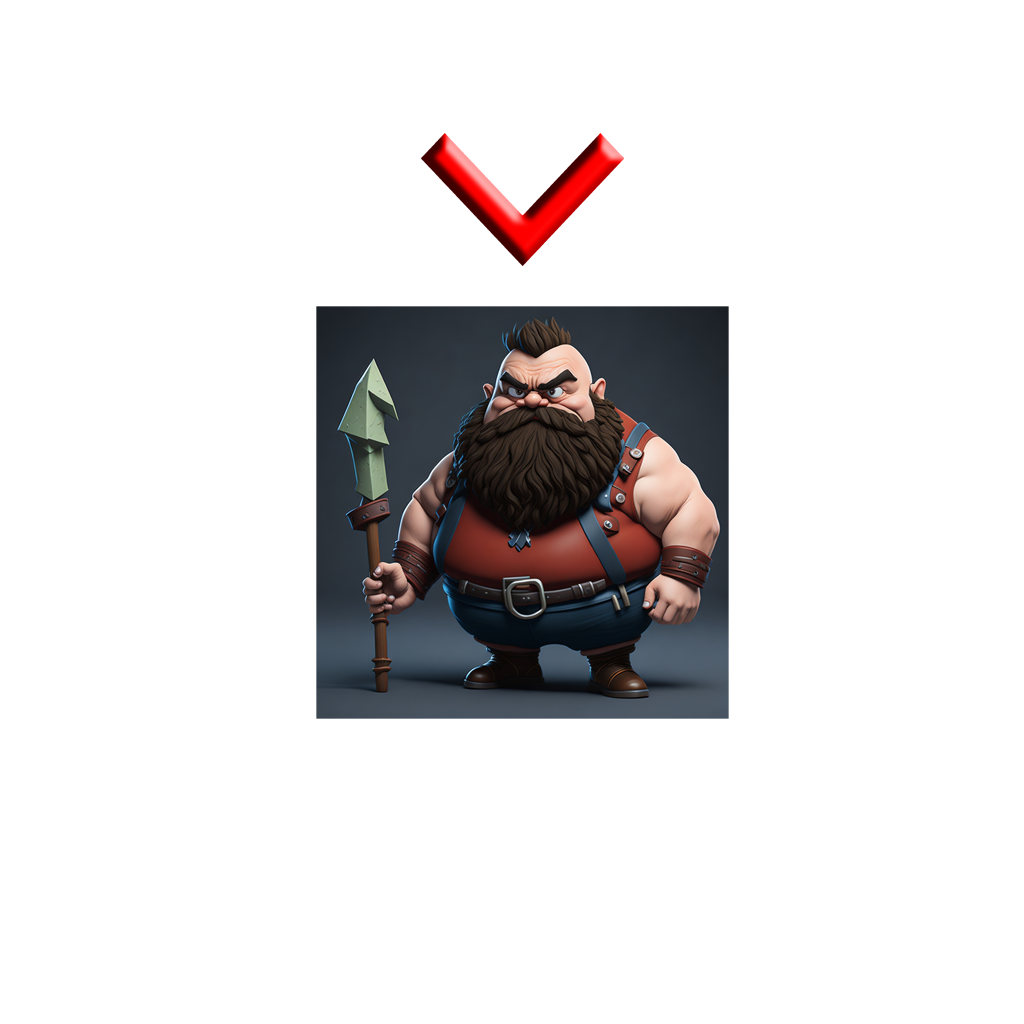
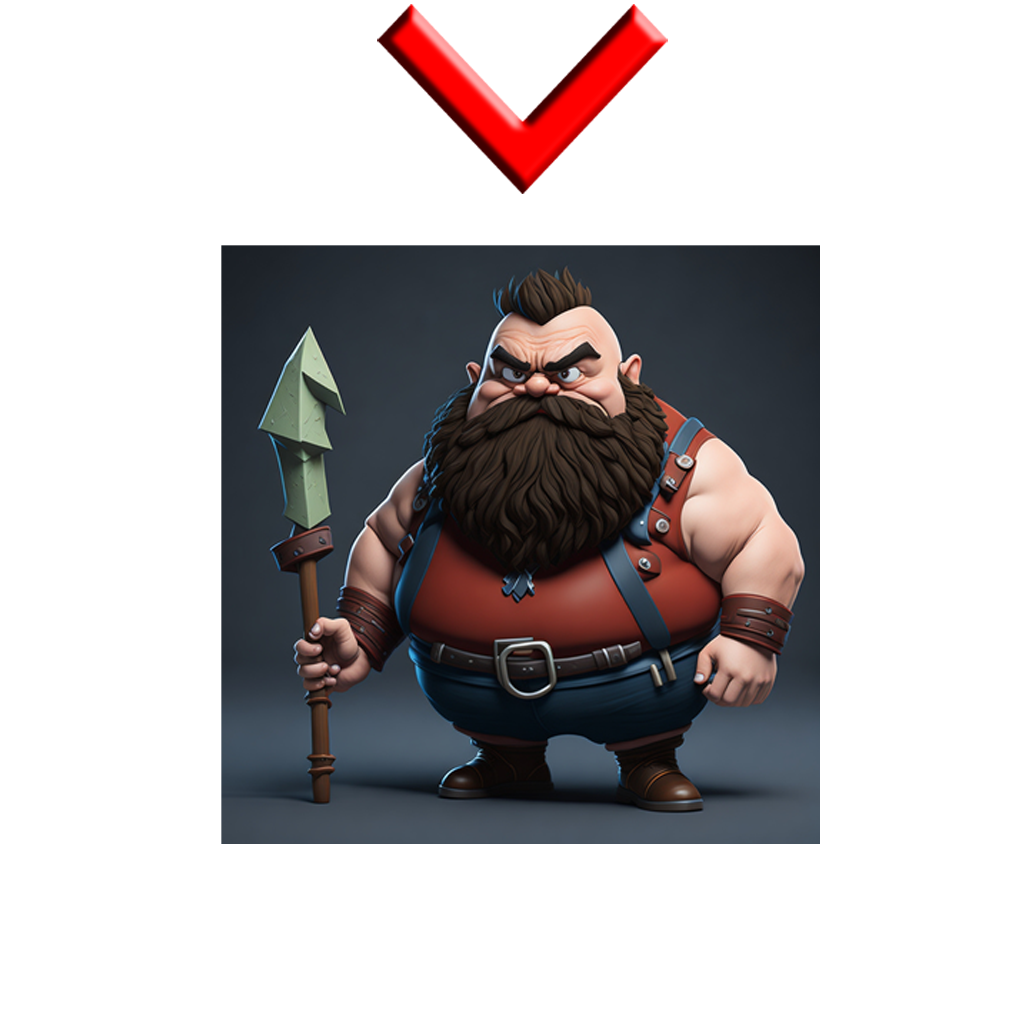
Added function on buttons & 2 player mode selector

diff --git a/index.html b/index.html
@@ -12,12 +12,12 @@
 <body>
     <div class="main-container">
         <div class="battleTitle">
-            <span>Pick your battle!</span>
+            <span class="battleTitleText">Pick your battle!</span>
         </div>
         <div class="versus">
-            <img src="" alt="">
+            <div id="div-image1"></div>
             <span class="versusText">VS</span>
-            <img src="" alt="">
+            <div id="div-image2"></div>
         </div>
         <div class="fight">
             <button onclick="epicFight.go()" class="btnFight"><img class="btnImage" src="/assets/images/fight.png"
@@ -25,14 +25,13 @@
         </div>
         <div class="heroes-container">
             <div class="hero-container">
-                <img class="heroImage" src="/assets/images/dwarf_selection.png" alt="dwarf">
-                <!-- Modifica imaginile in 300x300 px -->
+                <button onclick="imageP1Left(`/assets/images/dwarf.png`) || imageP2Right(`/assets/images/dwarf.png`)" class="hero-selection" data-selection="dwarf"><img class="heroImage dwarf" src="/assets/images/dwarf_selection3.png" alt="Dwarf"></button>
             </div>
             <div class="hero-container">
-                <img class="heroImage" src="/assets/images/sprite_selection.png" alt="sprite">
+                <button onclick="imageP1Left(`/assets/images/sprite.png`) || imageP2Right(`/assets/images/sprite.png`)" class="hero-selection" data-selection="sprite"><img class="heroImage sprite" src="/assets/images/sprite_selection3.png" alt="Sprite"></button>
             </div>
             <div class="hero-container">
-                <img class="heroImage" src="/assets/images/dragon_selection.png" alt="dragon">
+                <button onclick="imageP1Left(`/assets/images/dragon.png`) || imageP2Right(`/assets/images/dragon.png`)" class="hero-selection" data-selection="dragon"><img class="heroImage dragon" src="/assets/images/dragon_selection3.png" alt="Dragon"></button>
             </div>
         </div>
     </div>

diff --git a/js/main.js b/js/main.js
@@ -91,6 +91,12 @@ class Fight {
         this.turn = 0;
     }
 
+    // chooseCharacter() {
+    //     // daca turn === 0
+    //     // iti salvezi imaginile in niste variabile
+    //     // listener la click 
+    // }
+
     performAttack() {
         if(this.turn === 0) {
             this.hero1.attack(this.hero2);
@@ -127,3 +133,42 @@ let sprite = new Sprite("Prinna Bumblelace Sprite", 40);
 let dragon = new Dragon("Aphat, The Pun Dragon", 60);
 
 let epicFight = new Fight(dwarf, sprite);
+
+
+let selectedHero1 = null;
+let selectedHero2 = null;
+let selectedHero = document.querySelectorAll("[data-selection]");
+selectedHero.forEach(selectedHero => {
+    selectedHero.addEventListener("click", e => {
+        let selectedHeroName = selectedHero.dataset.selection
+        makeSelection(selectedHeroName)
+    })
+})
+
+function makeSelection(selection) {
+        if (!selectedHero1) {
+            selectedHero1 = selection;
+            console.log("Player 1 selected:", selection);
+            imageP1Left(numeImagine)
+        } else if (!selectedHero2) {
+            selectedHero2 = selection;
+            console.log("Player 2 selected:", selection);
+            imageP2Right(numeImagine)
+        };
+}
+
+// document.getElementById("buton").addEventListener("click", function() {
+//     var divImagine = document.getElementById("divImagine");
+//     var imagine = document.createElement("img");
+//     imagine.src = "calea-catre-imagine.jpg"; // înlocuiește cu calea către imaginea ta
+//     divImagine.appendChild(imagine);
+//   });
+
+function imageP1Left(numeImagine) {
+    var divImagine = document.getElementById('div-image1');
+    divImagine.innerHTML = '<img src="' + numeImagine + '" alt="Imagine">';
+  }
+  function imageP2Right(numeImagine) {
+    var divImagine = document.getElementById('div-image2');
+    divImagine.innerHTML = '<img src="' + numeImagine + '" alt="Imagine">';
+  }

diff --git a/css/style.css b/css/style.css
@@ -23,7 +23,7 @@ body {
 
 
 .main-container {
-    padding-top: 8%;
+    padding-top: 160px;
     display: flex;
     flex-direction: column;
     align-content: center;
@@ -31,22 +31,26 @@ body {
 }
 
 .battleTitle {
-    font-family: MortalKombat2;
-    font-size: 48px;
-    color: #ffffff;
     display: flex;
     flex-direction: column;
     align-content: center;
     flex-wrap: wrap;
 }
 
+.battleTitleText {
+    font-family: Dalek;
+    font-size: 48px;
+    color: #ffffff;
+}
+
 .versus {
     font-family: MortalKombat1;
-    padding-top: 10%;
+    padding-top: 144px;
     display: flex;
-    flex-direction: column;
+    flex-direction: row;
     align-content: center;
     flex-wrap: wrap;
+    justify-content: center;
 }
 
 .versusText {
@@ -74,8 +78,36 @@ body {
 
 .heroes-container {
     display: flex;
+    justify-content: center;
 }
 
 .heroes-container .heroImage {
-    height: 100px;
+    height: 250px;
+}
+.heroImage.dwarf:hover {
+    content: url(/assets/images/dwarf-details.png);
+}
+.heroImage.dwarf:target {
+    content: url(/assets/images/dwarf_selected2.png);
+}
+
+.heroImage.sprite:hover {
+    content: url(/assets/images/sprite-details.png);
+}
+
+.heroImage.dragon:hover {
+    content: url(/assets/images/dragon-details.png);
+}
+
+.hero-selection {
+    background: none;
+    border-width: 0px;
+}
+
+.p1-clicked-dwarf {
+    content: url(/assets/images/dwarf_selected.png);
+}
+
+.p1-clicked-dwarf {
+    content: url(/assets/images/dwarf_selected.png);
 }
